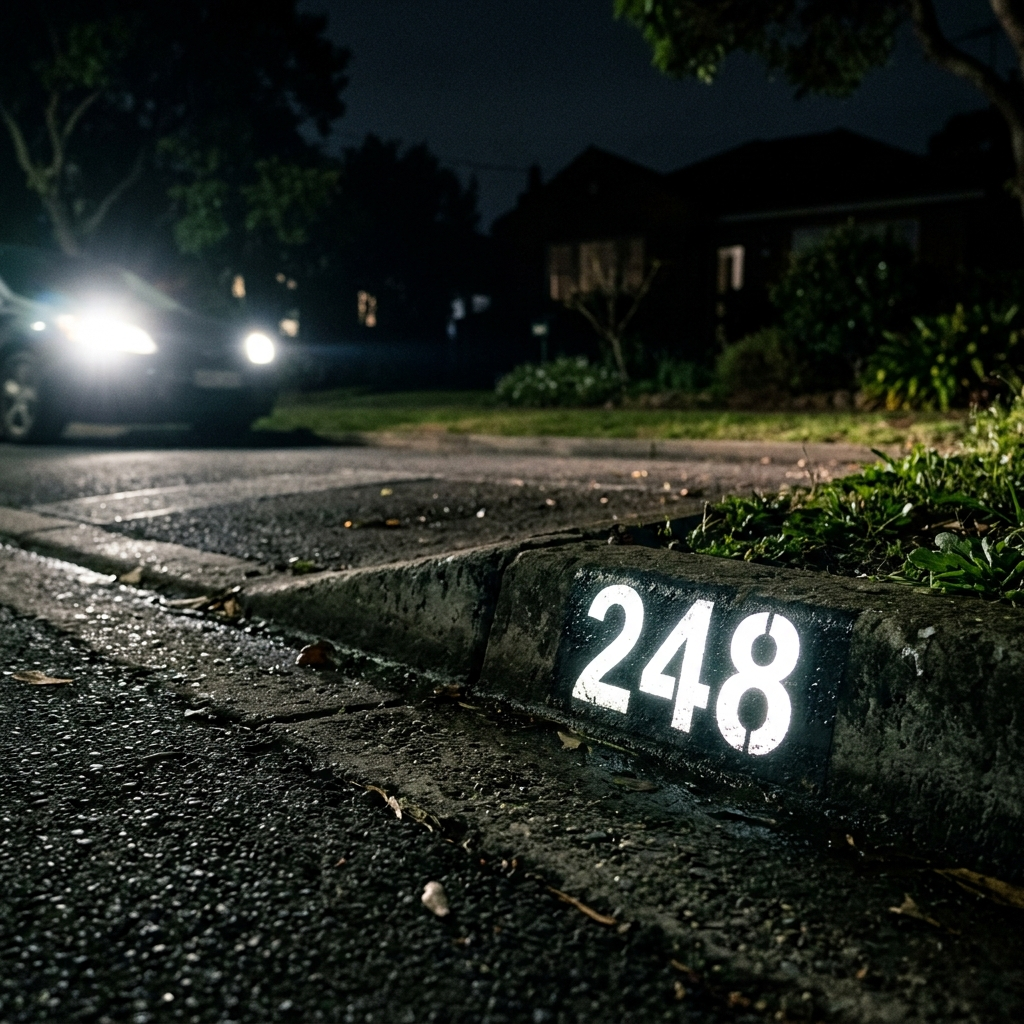
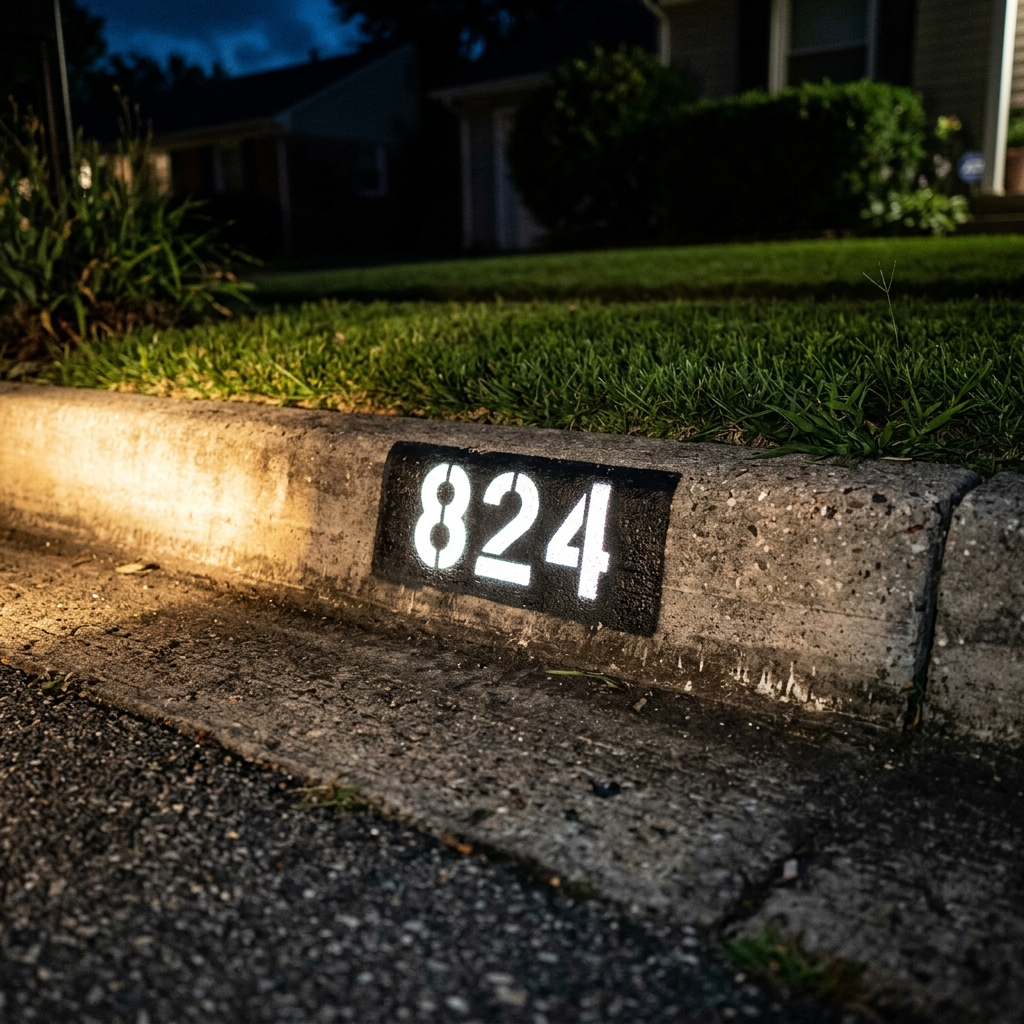
Update site copy, fix gallery cropping, and replace benefits image with correct address 824

diff --git a/lib/content.ts b/lib/content.ts
@@ -34,7 +34,7 @@ export const home = {
     headlineLead: "Your address, ",
     headlineAccent: "clearly painted.",
     headlineTail: " Every time.",
-    sub: "Oregon's go-to curb address painter — door-to-door across Portland, Beaverton, Tigard, Tualatin, Lake Oswego and surrounding areas since 2020. Fast, fair, done on the spot.",
+    sub: "Oregon's go-to Address curb painter — door-to-door across Portland, Beaverton, Tigard, Tualatin, Lake Oswego and surrounding areas since 2020. Fast, fair, done on the spot.",
     // primary renders as a Call Now button; href is the fallback when no phone is set.
     primary: { label: "Call Now", href: "/contact/" },
     secondary: { label: "See the Work", href: "/gallery/" },
@@ -75,7 +75,7 @@ export const home = {
   hiring: {
     eyebrow: "Now hiring",
     heading: "Paint curbs with Curb'n IT.",
-    body: "Curb'n IT is bringing on door-to-door painters across Oregon. Flexible hours, outdoor work, paid per job. No experience needed.",
+    body: "Curb'n IT is bringing on door-to-door sales representatives across Oregon. Flexible hours, outdoor work, paid per job. No experience needed.",
     cta: { label: "See the role", href: "/recruitment/" },
   },
   about: {
@@ -198,19 +198,19 @@ export const about = {
 // ── RECRUITMENT --------------------------------------------------
 export const recruitment = {
   seo: {
-    title: "Join Curb'n IT — Curb Painter Jobs in Oregon",
+    title: "Join Curb'n IT — Sales Rep Jobs in Oregon",
     description:
-      "Curb'n IT is hiring door-to-door curb address painters across Oregon. Flexible hours, outdoor work, paid per job. No experience needed — apply today.",
+      "Curb'n IT is hiring sales reps across Oregon. Flexible hours, outdoor work, paid per job. No experience needed — apply today.",
   },
   hero: {
     eyebrow: "Now hiring",
     heading: "Paint curbs. Set your own pace.",
-    sub: "Curb'n IT is bringing on door-to-door curb address painters across Oregon. No experience needed — if you can talk to people and show up, you can earn.",
+    sub: "Curb'n IT is bringing on sales reps across Oregon. No experience needed — if you can talk to people and show up, you can earn.",
   },
   whatYouDo: {
     heading: "What the work is",
     items: [
-      "Knock doors in Oregon neighborhoods and offer curb address painting",
+      "Knock doors in Oregon neighborhoods and offer Address curb painting",
       "Paint house numbers on curbs — quick training, simple kit",
       "Set your own hours and the areas you want to cover",
       "Get paid per job, no cap on how much you take on",

diff --git a/app/globals.css b/app/globals.css
@@ -334,6 +334,17 @@ button { font-family: inherit; cursor: pointer; }
 .gal-cap .loc { font-weight: 600; font-size: 0.95rem; }
 .gal-cap .typ { font-size: 0.78rem; font-weight: 700; letter-spacing: 0.04em; text-transform: uppercase; color: var(--accent-ink); }
 
+/* Prevent cropping of gallery and home page teaser images */
+.grid-gal .ph,
+.cols-4 .ph {
+  background-image: none !important;
+  background-color: var(--ink) !important;
+}
+.grid-gal .ph__img,
+.cols-4 .ph__img {
+  object-fit: contain !important;
+}
+
 /* ============================================================
    CONTACT FORM
    ============================================================ */